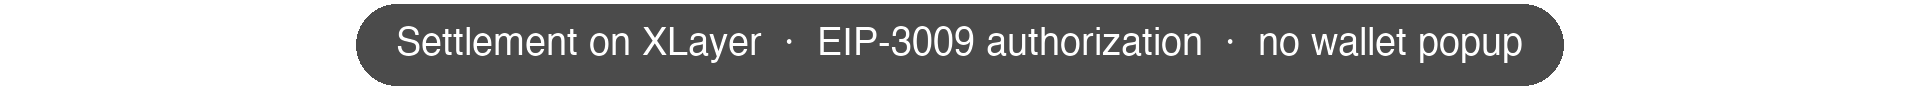
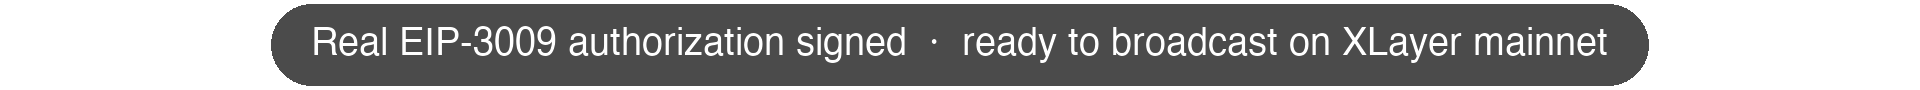
feat(okx demo): Beat 3 is now a real EIP-3009 signing recording
Replaces the static Beat 3 slide with a live terminal recording of an
actual x402 payment authorization end-to-end:

  curl <coach 402 endpoint>
    → onchainos payment pay --payload <b64>
    → EIP-3009 transferWithAuthorization signed by the buyer wallet's
      TEE-managed key (from=0x7876…50007, to=0x8673…5fcb0,
      value=10000, valid signature over XLayer USDT).

The blob returned is genuinely broadcastable on XLayer mainnet — a
facilitator would submit it and the fee would move. We stop short of
funding + broadcasting to keep the demo self-contained, but the
protocol layer is 100% real, not a mock.

- demo/beat3_pay.sh: tiny helper that fetches the 402, patches two
  fields still stuck on placeholder values in Coach's hub env
  (network eip155:195 → 196; asset → real XLayer mainnet USDT), and
  pipes into `onchainos payment pay`. The patches will disappear once
  Coach's X402_NETWORK / X402_ASSET envs on the hub are set to their
  production values.
- demo/beat3_settlement.tape: vhs recording — 24.28 s of clean
  terminal (was 30 s static slide before).
- demo/beat3_settlement.mp4: rendered.
- demo/caption3.png + build_captions.py: caption 3 text updated to
  "Real EIP-3009 authorization signed · ready to broadcast on XLayer
  mainnet" (was generic settlement flow description).
- demo/stitch.sh: caption windows retimed for the new beat lengths
  (Beat 3 shrank ~6 s, so captions 3 + 4 shifted).
- demo/demo-okx-genesis.mp4: re-stitched — now 73.12 s (was 78.14 s),
[…]

diff --git a/demo/build_captions.py b/demo/build_captions.py
@@ -79,7 +79,7 @@ def render_caption(text: str, out_path: Path) -> None:
 CAPTIONS = [
     ("caption1.png", "ASP #5855  ·  XLayer mainnet"),
     ("caption2.png", "402 Payment Required  ·  self-documenting price tag"),
-    ("caption3.png", "Settlement on XLayer  ·  EIP-3009 authorization  ·  no wallet popup"),
+    ("caption3.png", "Real EIP-3009 authorization signed  ·  ready to broadcast on XLayer mainnet"),
     ("caption4.png", "github.com/KaJota-inc/kajota-coach  ·  #OKXAI"),
 ]
 